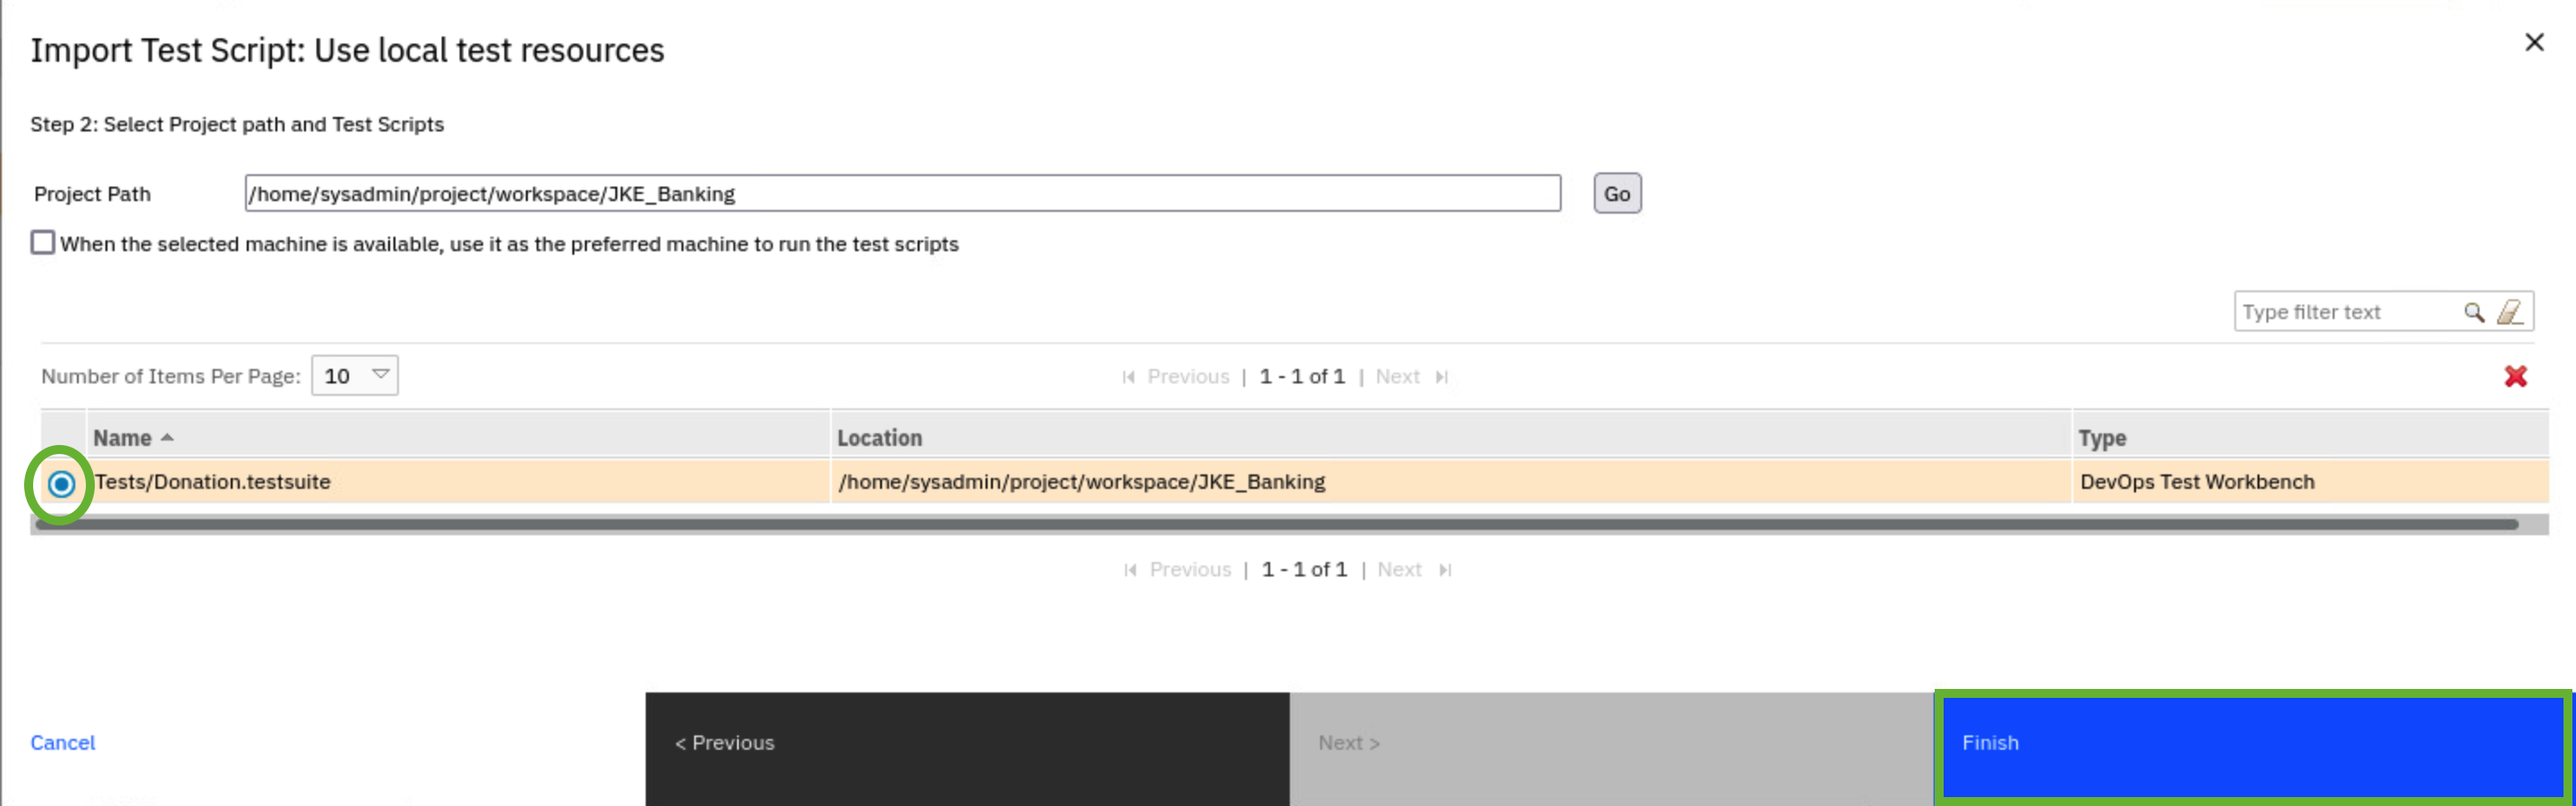
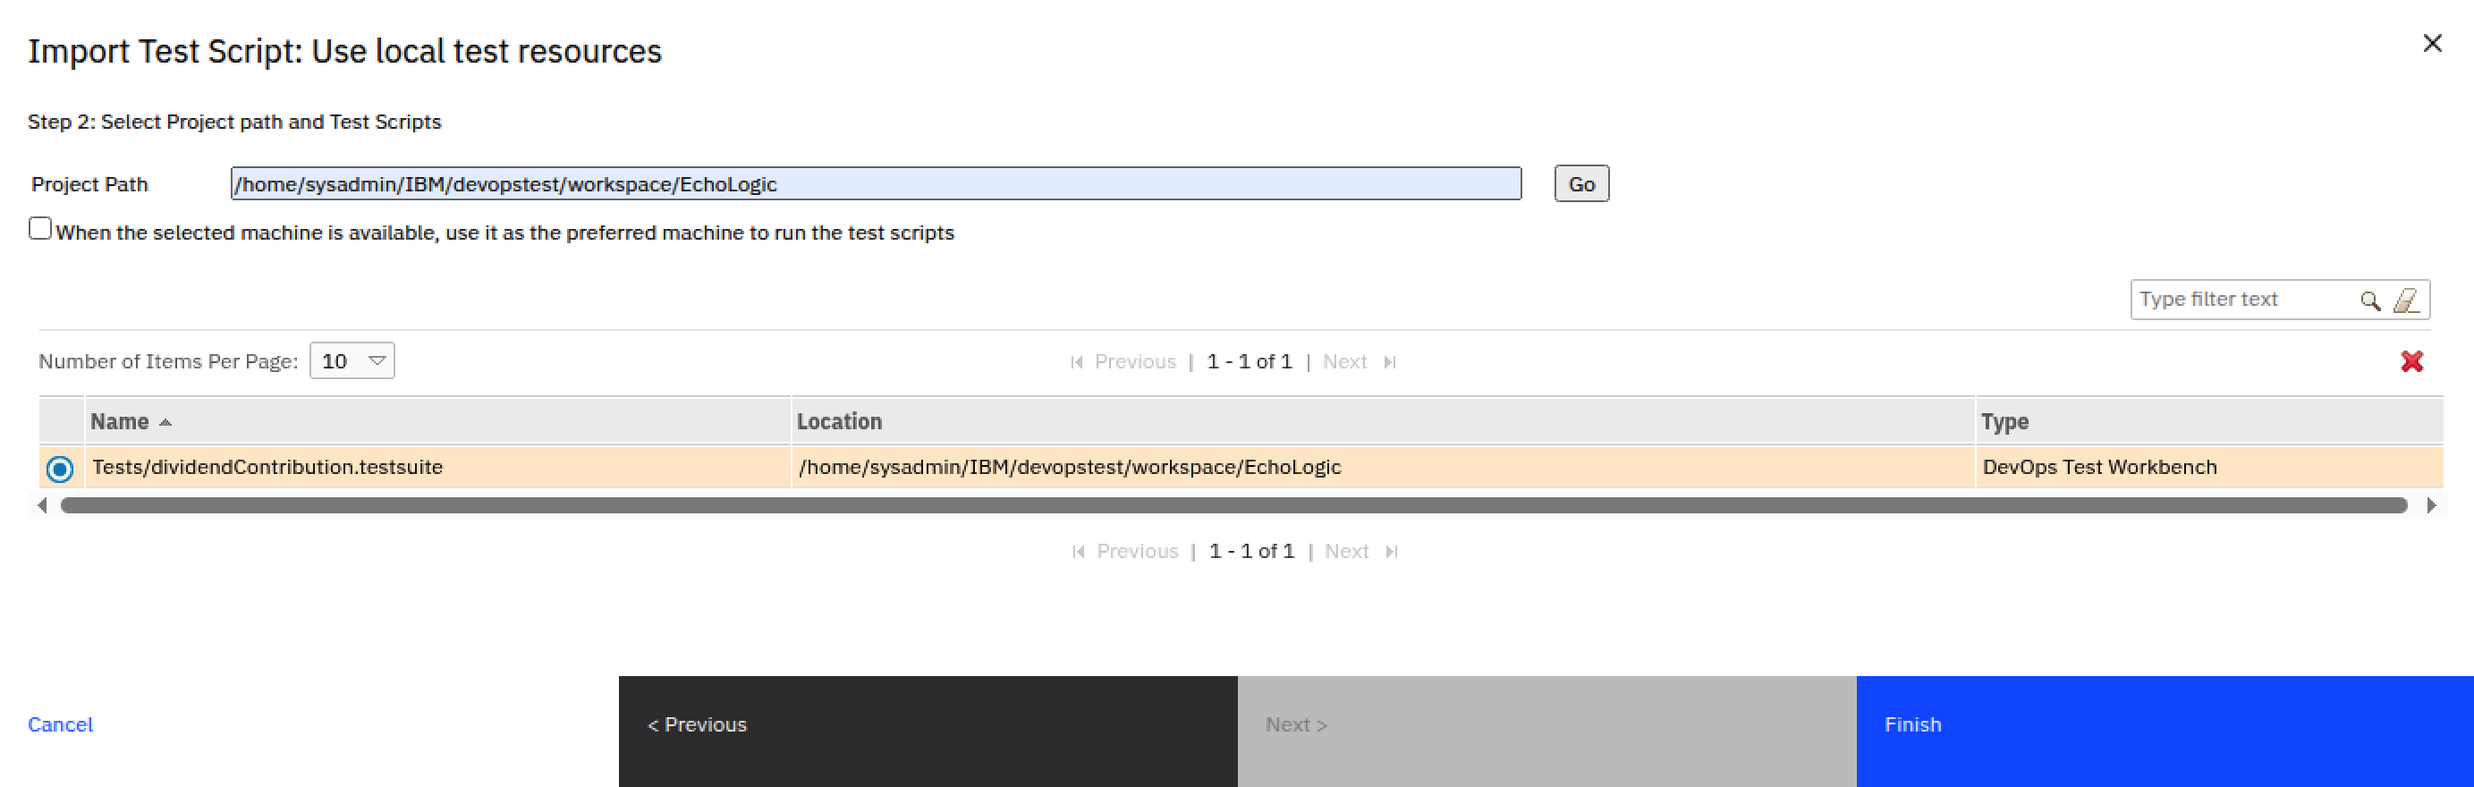
TestEnablementDone

diff --git a/docs/index.md b/docs/index.md
@@ -16,12 +16,12 @@
 |:-------------:|:------------- |:------------- |
 | DevOps Test Hub | Test Hub, a web-based continuous testing platform, enables test teams to run a breadth of tests that includes API, functional, and performance tests as well as bringing together test data, test environments, and test runs and reports into a single, web-based browser for testers and non-testers. | [Overview](https://www.ibm.com/docs/en/devops-test-hub/11.0.6?topic=guide-introduction-devops-test-hub) |
 | DevOps Test UI | Test UI is an object-oriented automated testing tool that tests a wide range of desktop, Web, and mobile applications. Test UI provides automated testing capabilities for functional, regression, GUI, and data-driven testing. | [Overview](https://www.ibm.com/docs/en/SSBLQQ_11.0.6/docs/topics/IntrotoRobotJ.html) |
-| DevOps Test Integrations and APIs | Test Integrations and APIs is an integration testing and virtualization tool that includes capabilities to automate and run tests earlier and more often to find problems sooner in the development cycle.| [Overview](https://www.ibm.com/docs/en/devops-test-workbench/11.0.6?topic=started-overview-devops-test-integrations-apis) |
+| DevOps Test Integrations and APIs | Test Integrations and APIs is an integration testing and service virtualization solution that includes capabilities to automate and run tests earlier and more often to find problems sooner in the development cycle.| [Overview](https://www.ibm.com/docs/en/devops-test-workbench/11.0.6?topic=started-overview-devops-test-integrations-apis) |
 | DevOps Test Performance | Test Performance is a scripting-free environment for automating load and scalability testing of web, ERP, and server-based software applications. Test Performance provides rich and customizable reporting to help you identify the presence and cause of system bottlenecks. It captures the network traffic that is rendered when the application under test interacts with a server. This network traffic is then emulated on multiple virtual users while you play back the test. | [Overview](https://www.ibm.com/docs/en/devops-test-workbench/11.0.6?topic=started-devops-test-performance-overview) |
 | DevOps Test Embedded | Test Embedded is a complete test and runtime analysis tool set for systems development created in any cross-development environment. Test Embedded provides tools for automated component testing, code coverage, memory leak detection, performance profiling, and UML sequence diagram tracing. | [Overview](https://www.ibm.com/docs/en/devops-test-embedded/9.0.0?topic=guide-overview) |
 
 ## Why integrate IBM DevOps Test Automation with IBM Engineering Test Management
-While test automation is not a "silver bullet" replacement for all manual testing activities and is often misused as a means or reason to reduce the size of test teams, test automation does provide organizations with many benefits, including:
+While test automation is not a "silver bullet" replacement for all manual testing activities and may be misused as a means or reason to reduce the size of test teams, test automation does provide organizations with many benefits, including:
 
 | **Value Proposition** | **Explanation** |
 |:-------------:|:------------- |
@@ -29,7 +29,7 @@ While test automation is not a "silver bullet" replacement for all manual testin
 | Helping test teams increase test coverage | Freeing testers from having to execute test scripts manually by following a series of documented test steps allows them to focus on improving the overall test effort - identify missing test cases, focus on exploratory testing, improving test practices eliminating waste, etc... |
 | Improving testing accuracy | Let's face it, people make mistakes. Automated testing is software designed to repeatedly and consistently execute a series of steps against the application under test over and over to verify functions and features. |
 | Accelerating feedback on software quality | As automated testing is faster, can be run as part of a deployment process, and consistently executes to verify software quality, the results of those test executions can be immediately shared directly back to the development team providing continuous feedback on software quality. |
-| Improving team morale | By allowing Testers to focus on improving the testing practice and providing Developers accelerated feedback on the software they are developing can only lead to improved morale. |
+| Improving team morale | By allowing Testers to focus on improving the testing practice and providing Developers accelerated feedback on the software they are commiting for build can only lead to improved morale. |
 
 ## About the learning environment
 
@@ -44,14 +44,18 @@ As the scope of this exercise is to share details on how to integrate DevOps Tes
 2. Modifies several field on the UI to submit a donation to the charity of choosing.</br>
 3. Posts the donation.</br>
 4. Verifies the donation has been successfully submited.</br>
-5. Browser closes/ test ends.</br>
+5. Closes the browser/ ends the test script execution.</br>
 
 ### Application Under Test (AUT) Setup ###
 
-The "JKE Banking - Donations" demo application being subjected to test automation is a simple html file containing javascript. It is deployed as a docker container running on an nginx server to host the index.html file on port 81 (http://127.0.0.1:81) and starts up during boot of the RHEL OS.
+The "Dividends" demo application being subjected to test automation is a simple html file containing javascript. It is deployed as a docker container running on an nginx server to host the index.html file on port 81 (http://127.0.0.1:81) and starts up during boot of the Ubuntu OS. 
+
+<br/>
+
+<img src="media/t_dividends.png" alt="t_dividends" style="width:100%; height:auto;">
 
 ### Chrome/Firefox Browser Setup ###
-Both browser applications have bookmarks available to conveniently access the Workbook, the ELM instance, and the JKE Banking - Donations demo application.
+Both browser applications have bookmarks available to conveniently access the Workbook, the ELM instance, and the Dividends demo application.
 
 ## About this workbook
 The scope of this workbook is to share details on how engineering teams can connect automated test scripts (authored in one of the many DevOps Test solutions) with test cases (managed in Engineering Test Management) for the purpose of automating test execution and delivering feedback on software quality to developers faster. And while the demo guide will share details on how to configure all the different adapter options, this exercise will focus on the end to end story involving DevOps Test UI and ETM as, once an adapter is configured, the process of adding a test script to an ETM test case is the same. 
@@ -97,7 +101,7 @@ The Test UI adapter is used to create a connection between the **Functional** te
 | 1 | Open a terminal session.  | <img src="media/t1_11.png" alt="t1_11" style="width:100%; height:auto;"> |
 | 2 | Navigate to the following folder within the DevOpsTest installation location: </br>*TestUI installation directory*/FunctionalTester/RQMAdapter/ </br> For this exercise, the installation folder is "/opt/IBM/DevOpsTest"</br></br>**cd /opt/IBM/DevOpsTest/FunctionalTester/RQMAdapter** | <img src="media/t1_11.png" alt="t1_11" style="width:100%; height:auto;"> |
 | 3 | As the superuser, execute the following command: </br> **sudo ./configureadapter**</br><br>*sudo password is "Passw0rd" (Passw+zero+rd)* | <img src="media/t1_12.png" alt="t1_12" style="width:100%; height:auto;"> |
-| 4 | In the DevOpsTest UI Adapter user interface, enter the appropriate information for your ETM installation. For the purposes of this exercise, the following was used to establish a connection with ETM.</br></br>**Server URL:** https://ibmjazz.net:9443/qm</br>**Authentication Type:** Username and Password</br>**User ID:** sysadmin</br>**Password:** Passw0rd</br>**Project area:**  JKEBanking (Quality Management) - selected from the picklist</br>**Adapter Name:** DTUI Adapter on rhserver | <img src="media/t1_13.png" alt="t1_13" style="width:100%; height:auto;"> |
+| 4 | In the DevOpsTest UI Adapter user interface, enter the appropriate information for your ETM installation. For the purposes of this exercise, the following was previously used to establish a connection with ETM.</br></br>**Server URL:** https://ibmjazz.net:9443/qm</br>**Authentication Type:** Username and Password</br>**User ID:** sysadmin</br>**Password:** Passw0rd</br>**Project area:**  JKEBanking (Quality Management) - selected from the picklist</br>**Adapter Name:** DTUI Adapter on rhserver | <img src="media/t1_13.png" alt="t1_13" style="width:100%; height:auto;"> |
 | **NOTE:** | The Project area picklist is automatically populated upon supplying the URL, User ID, and Password values.|  |
 | 5 | Click **Start Adapter**. | <img src="media/t1_14.png" alt="t1_14" style="width:100%; height:auto;"> |
 | 6 | Click the **Adapter Console** tab to confirm a connection was made to ETM. | <img src="media/t1_15.png" alt="t1_15" style="width:100%; height:auto;"> |
@@ -113,7 +117,7 @@ The Test Workbench adapter is used to create a connection between the **Test UI*
 
 | **Step** | <div style="width:250px">**Details**</div>  | **Additional Information** |
 |:-------------:|:------------- |:------------- |
-| 1 | From the RHEL desktop, click **Applications > DevOps Test > DevOps Test UI** to launch the testing application. | <img src="media/t1_21.png" alt="t1_21" style="width:100%; height:auto;"> |
+| 1 | From Ubuntu desktop, click **DevOps Test UI** shortcut to launch the testing application. | <img src="media/t1_21.png" alt="t1_21" style="width:25%; height:auto;"> |
 | 2 | Specify the Workspace and click **Launch**.</br></br>For this exercise leave the workspace as is. | <img src="media/t1_22.png" alt="t1_22" style="width:100%; height:auto;"> |
 | 3 | After DevOps Test UI has opened, click **Window** on the toolbar and select **Preferences** from the options presented. | <img src="media/t1_23.png" alt="t1_23" style="width:100%; height:auto;"> |
 | 4 | On the Preferences window, select **Engineering Test Management**. | <img src="media/t1_24.png" alt="t1_24" style="width:100%; height:auto;"> |
@@ -125,7 +129,7 @@ The Test Workbench adapter is used to create a connection between the **Test UI*
 | 8 | Confirm that the adapter successfully connected to ETM. | <img src="media/t1_29.png" alt="t1_29" style="width:100%; height:auto;"> |
 
 **1-4 Configuring the Test Integrations & APIs and Test Embedded Adapters**
-As these remaining two test automation solutions have not been installed/configured in the RHEL image, click on the following links to review how to integrate ETM with additional test automation solutions:</br></br>
+As these remaining two test automation solutions have not been installed/configured in the Ubuntu image, click on the following links to review how to integrate ETM with additional test automation solutions:</br></br>
 [Configure and Run the DevOps Test Integrations & APIs adapter](https://www.ibm.com/docs/en/devops-test-workbench/11.0.6?topic=integrations-devops-test-apis-engineering-test-management)</br>
 [Configure and Run the DevOps Test Embedded adapter](https://www.ibm.com/docs/en/devops-test-embedded/9.0.0?topic=integrating-engineering-test-management-integration)</br>
 
@@ -137,17 +141,17 @@ As these remaining two test automation solutions have not been installed/configu
 
 | **Step** | <div style="width:250px">**Details**</div>  | **Additional Information** |
 |:-------------:|:------------- |:------------- |
-| 1 | Working in the DevOps UI Test application, double click the **Donation** test script if not already open in the Test Editor view.| <img src="media/t1_30.png" alt="t1_30" style="width:100%; height:auto;"> |
+| 1 | Working in the DevOps UI Test application, double click the **dividendContribution** test script if not already open in the Test Editor view.| <img src="media/t1_30.png" alt="t1_30" style="width:100%; height:auto;"> |
 | 2 | In the View panel, click the **SmartShot View** to enable. | <img src="media/t1_31.png" alt="t1_31" style="width:100%; height:auto;"> |
 | 3 | In the Test Contents view, fully expand the **Test Resources** and **Launch application** twistys. | <img src="media/t1_32.png" alt="t1_32" style="width:100%; height:auto;"> |
 | 4 | Under the UI Test entry, click the **RTW_WebUI_Browser_Selection="Chrome"** line. | <img src="media/t1_33.png" alt="t1_33" style="width:100%; height:auto;"> |
 | 5 | In the **Variable Details** view, note that this test is configured to start an instance of Chrome.</br></br>*However, this setting may be changed to start a different browser or the browser setting could be provided through a data source allowing the test to be executed against a variety of browser types.* | <img src="media/t1_34.png" alt="t1_34" style="width:100%; height:auto;"> |
-| 6 | Click through the various test script commands listed starting from **Launch application: 127.0.0.1:81** and refer to the SmartShot View seeing how the application is being exercised by the test script.</br></br>The first six steps are interacting with the application as a user would - clicking controls and entering data. The seventh step is verifying that the user was able to successfully send a donation of $100 CAD to the United Way organization. | <img src="media/t1_35.png" alt="t1_35" style="width:100%; height:auto;"> |
+| 6 | Click through the various test script commands listed starting from **Launch application: echologic.com:81** and refer to the SmartShot View seeing how the application is being exercised by the test script.</br></br>The first six steps are interacting with the application as a user would - clicking controls and entering data. The seventh step is verifying that the user was able to successfully send a donation of $100 CAD to the United Way organization. | <img src="media/t1_35.png" alt="t1_35" style="width:100%; height:auto;"> |
 | **NOTE:** | This example was a very simple test. However, now that this user story can be verified automatically, it can now be added to Test Case **9: Donors Can Choose to Support an Organization** in ETM, and can repeatedly be executed as part of future ETM test plans. |  | 
 
 ### 3. Create an ETM test script, import the DevOps Test script, and add to an ETM test case for test execution ###
 
-**NOTE:** Before starting the exercise, be sure to start the DevOps Test UI adapter and confirm its availability on the ETM Adapter Console page.</br></br>
+**NOTE:** Before starting the exercise, be sure to start the DevOps Test UI adapter if not already running and confirm its availability on the ETM Adapter Console page.</br></br>
 **Start adapter in DevOps Test UI**</br>
 <img src="media/t_startAdapter.png" alt="t_startAdapter" style="width:50%; height:auto;"></br></br>
 **Verify adapter in ETM Adapter Console**</br>
@@ -163,10 +167,10 @@ As these remaining two test automation solutions have not been installed/configu
 | 4 | Set the test script action as **Ready for review** and assign to **Sally**.  | <img src="media/t1_39.png" alt="t1_39" style="width:100%; height:auto;"> |
 | 5 | In the **Test Workbench script details** section, enable **Use test resources that are local to a test machine** and click **Select Adapter**.  | <img src="media/t1_40.png" alt="t1_40" style="width:100%; height:auto;"> |
 | 6 | Select the test adapter which will be used to access the test script in DevOps Test UI. Click **Next**.  | <img src="media/t1_41.png" alt="t1_41" style="width:100%; height:auto;"> |
-| 7 | Enter the path to the DevOps Test UI workspace and project area within the workspace.</br></br>**/home/sysadmin/project/workspace/JKE_Banking**</br></br>Click **Go**. | <img src="media/t1_42.png" alt="t1_42" style="width:100%; height:auto;"> |
+| 7 | Enter the path to the DevOps Test UI workspace and project area within the workspace.</br></br>**/home/sysadmin/project/workspace/EchoLogic**</br></br>Click **Go**. | <img src="media/t1_42.png" alt="t1_42" style="width:100%; height:auto;"> |
 | **NOTE:** | Clicking Go makes a connection to the DevOps Test UI project area returning a list of available test scripts. |  |
 | 8 | Select the test script to be imported from DevOps Test UI and click Finish. | <img src="media/t1_43.png" alt="t1_43" style="width:100%; height:auto;"> |
-| 9 | Save the Test Script in ETM. | <img src="media/t1_44.png" alt="t1_44" style="width:100%; height:auto;"> | 
+| 9 | Save the Test Script in ETM. | <img src="media/t1_44.png" alt="t1_44" style="width:50%; height:auto;"> | 
 | 10 | In the Action field, change the state to **Approve** and **save** the change. | <img src="media/t1_45.png" alt="t1_45" style="width:100%; height:auto;"> |
 
 **3-2 Add new test script to ETM Test Case**
@@ -174,8 +178,8 @@ As these remaining two test automation solutions have not been installed/configu
 | **Step** | <div style="width:250px">**Details**</div>  | **Additional Information** |
 |:-------------:|:------------- |:------------- |
 | 1 | Working in the JKE Banking (Quality Management) project in ETM, click **Construction** and Browse **Test Cases**. | <img src="media/t1_46.png" alt="t1_46" style="width:100%; height:auto;"> |
-| 2 | Open Test Case 9:Donors Can Choose to Support an Organization | <img src="media/t1_47.png" alt="t1_47" style="width:100%; height:auto;"> |
-| **NOTE:** | Remember when reviewing the automated test script steps in DevOps Test UI:</br>1. United Way was chosen by the user as the donation recipient.</br>2. The test script playback was in a Chrome browser. |  |
+| 2 | Open **Test Case 9:Donors Can Choose to Support an Organization** | <img src="media/t1_47.png" alt="t1_47" style="width:100%; height:auto;"> |
+| **NOTE:** | Remember when reviewing the automated test script steps in DevOps Test UI:</br>1. Humane Society was chosen by the user as the donation recipient.</br>2. The test script playback was in a Chrome browser. |  |
 | 3 | Working in the Test Case Execution Records view of the Test Case, add a new Test Case Execution Record by clicking the Generate New Test Case Execution Record icon. | <img src="media/t1_48.png" alt="t1_48" style="width:100%; height:auto;"> |
 | 4 | From the list of available Test Environments, select **Chrome_DB2_Tomcat...** and click **Next**. | <img src="media/t1_49.png" alt="t1_49" style="width:100%; height:auto;"> |
 | **NOTE:** | For the purpose of this exercise, you will just reuse an existing environment. However, know that you could Generate a Test Environment as well. |  |
@@ -207,10 +211,10 @@ As these remaining two test automation solutions have not been installed/configu
 | 1 | Remaining on the Donors Can Choose to Support an Organization Execution record, notice the Overall Verdict outcome.  | <img src="media/t1_61.png" alt="t1_61" style="width:100%; height:auto;"> |
 | 2 | Scroll down in the record to review the process summary table. | <img src="media/t1_62.png" alt="t1_62" style="width:100%; height:auto;"> |
 | 3 | Scroll to top of page and click **Show Result**. | <img src="media/t1_63.png" alt="t1_63" style="width:100%; height:auto;"> |
-| 4 | Review the **Result Details**.</br></br>**Actual Result:** Passed</br>**Test Case:** 9:Donors Can Choose to Support an Organization</br>**Test Script:** 29:AT-Donor can choose Organization</br>**Test Case Execution Records:** 55:Donors Can Choose to Support an Organization. | <img src="media/t1_64.png" alt="t1_64" style="width:100%; height:auto;"> |
+| 4 | Review the **Result Details**.</br></br>**Actual Result:** Passed</br>**Test Case:** 9:Donors Can Choose to Support an Organization</br>**Test Script:** 29:AT-Donor can choose Organization</br>**Test Case Execution Records:** 54:Donors Can Choose to Support an Organization. | <img src="media/t1_64.png" alt="t1_64" style="width:100%; height:auto;"> |
 | 5 | Scroll down to review the **Result Details**. Notice how the test execution reports from DevOps Test UI have been attached to the results record. | <img src="media/t1_65.png" alt="t1_65" style="width:100%; height:auto;"> |
-| 6 | Click the Donation[dateTimeStamp].htm file to download saving in the Downloads folder. | <img src="media/t1_66.png" alt="t1_66" style="width:100%; height:auto;"> |
-| 7 | Open File Manager from the RHEL desktop and navigate to the Downloads folder. | <img src="media/t1_67.png" alt="t1_67" style="width:100%; height:auto;"> |
+| 6 | Click the dividendContribution[dateTimeStamp].htm file to download saving in the Downloads folder. | <img src="media/t1_66.png" alt="t1_66" style="width:100%; height:auto;"> |
+| 7 | Open File Manager from the Ubuntu desktop and navigate to the Downloads folder. | <img src="media/t1_67.png" alt="t1_67" style="width:100%; height:auto;"> |
 | 8 | Double click the Donation[dateTimeStamp].htm file to open in a browser. | <img src="media/t1_68.png" alt="t1_68" style="width:100%; height:auto;"> |
 | 9 | Review the Test Log details. Note the test script details in Verification point verdicts section. | <img src="media/t1_69.png" alt="t1_69" style="width:100%; height:auto;"> |
 
@@ -220,4 +224,4 @@ As these remaining two test automation solutions have not been installed/configu
 |:---- |:----:|:---:|
 | DevOps Test UI | Version 2025.06 (11.0.5) | Software Start Menu |
 | DevOps Test Performance | Version 2025.06 (11.0.5) | Software Start Menu |
-| Engineering Lifecycle Management | v7.1 SR1 | https://ibmjazz.net:9443 |
+| Engineering Lifecycle Management | v7.1 | https://ibmjazz.net:9443 |
